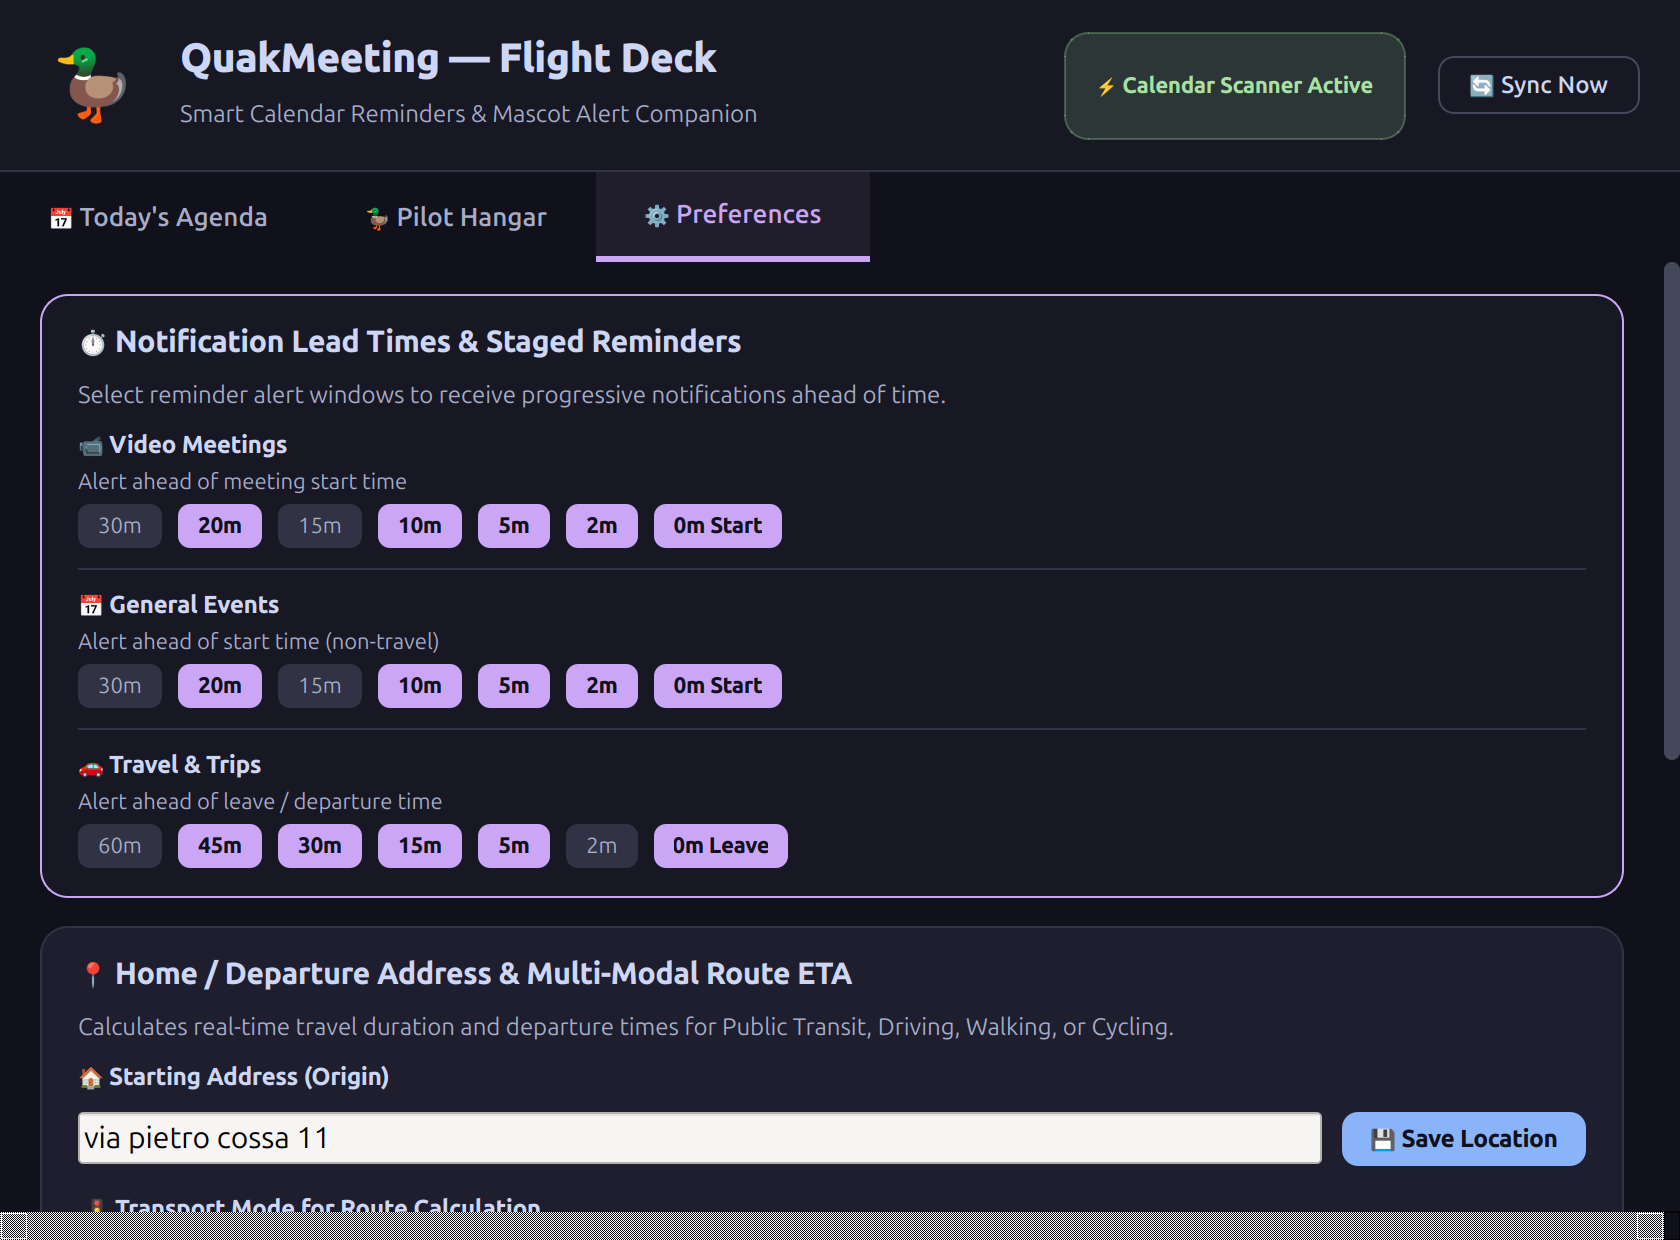
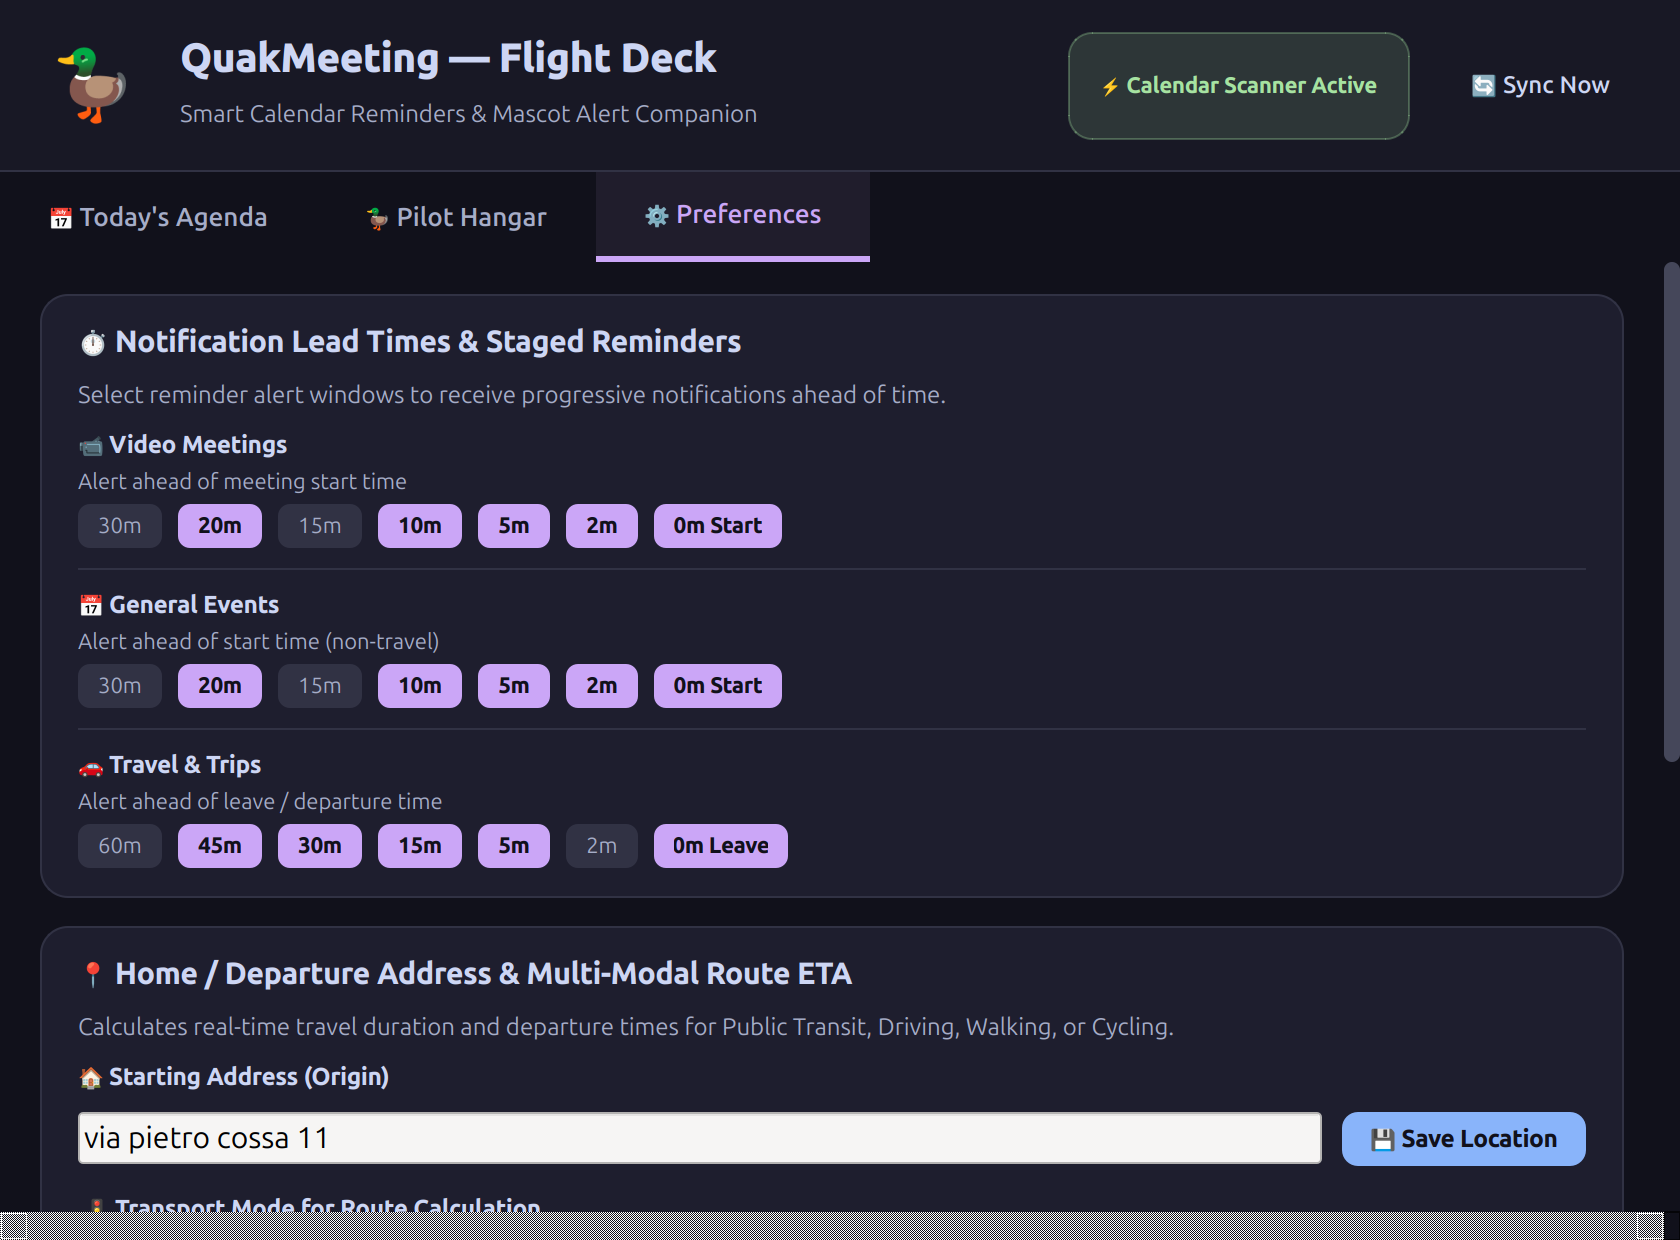
fix(ui): improve button contrast and resolve text rendering glitch
- Fix a Qt6 styling bug where missing 'border: none;' on QPushButton caused Linux DEs to overwrite the text color of #PrimaryBtn.
- Adjust text color on the Preferences segmented buttons and the software update button to use Catppuccin Crust (#11111b) against Catppuccin Blue (#89b4fa) for maximum readability and accessibility.
- Regenerate dashboard screenshots to reflect the contrast improvements.

Changed region(s): [[0.619, 0.0306, 0.9595, 0.0919]]

diff --git a/ui/linux/qt_dashboard.py b/ui/linux/qt_dashboard.py
@@ -118,6 +118,7 @@ QPushButton#PrimaryBtn {
     color: #11111b; /* Crust */
     font-size: 12px;
     font-weight: bold;
+    border: none;
     border-radius: 8px;
     padding: 6px 14px;
 }
@@ -131,6 +132,7 @@ QPushButton#OutlineBtn {
     border: 1px solid #45475a; /* Surface1 */
     font-size: 12px;
     font-weight: 600;
+    border: none;
     border-radius: 8px;
     padding: 6px 14px;
 }
@@ -158,7 +160,7 @@ QPushButton#SegmentBtn {
     padding: 6px 12px;
 }
 QPushButton#SegmentBtn:hover {
-    background-color: rgba(255,255,255,0.05);
+    background-color: rgba(205, 214, 244, 0.05);
 }
 QPushButton#SegmentBtn:checked {
     background-color: #313244; /* Surface0 */
@@ -503,7 +505,7 @@ class QtFlightDeckWindow(QMainWindow):
                     b.setStyleSheet("""
                         QPushButton {
                             background: qlineargradient(x1:0, y1:0, x2:1, y2:0, stop:0 #74c7ec, stop:1 #89b4fa);
-                            color: #cdd6f4;
+                            color: #11111b;
                             font-weight: bold;
                             border: 1px solid #89b4fa;
                             border-radius: 8px;
@@ -513,14 +515,14 @@ class QtFlightDeckWindow(QMainWindow):
                 else:
                     b.setStyleSheet("""
                         QPushButton {
-                            background: rgba(255, 255, 255, 0.05);
+                            background: rgba(205, 214, 244, 0.05);
                             color: #bac2de;
-                            border: 1px solid rgba(255, 255, 255, 0.1);
+                            border: 1px solid rgba(205, 214, 244, 0.1);
                             border-radius: 8px;
                             padding: 8px 12px;
                         }
                         QPushButton:hover {
-                            background: rgba(255, 255, 255, 0.10);
+                            background: rgba(205, 214, 244, 0.10);
                             color: #cdd6f4;
                         }
                     """)
@@ -715,7 +717,7 @@ class QtFlightDeckWindow(QMainWindow):
         install_btn.setStyleSheet("""
             QPushButton {
                 background: qlineargradient(x1:0, y1:0, x2:1, y2:0, stop:0 #74c7ec, stop:1 #89b4fa);
-                color: #cdd6f4;
+                color: #11111b;
                 font-weight: bold;
                 font-size: 12px;
                 border-radius: 8px;
@@ -726,7 +728,7 @@ class QtFlightDeckWindow(QMainWindow):
                 background: qlineargradient(x1:0, y1:0, x2:1, y2:0, stop:0 #89b4fa, stop:1 #89b4fa);
             }
             QPushButton:disabled {
-                background: rgba(255, 255, 255, 0.08);
+                background: rgba(205, 214, 244, 0.08);
                 color: #6c7086;
             }
         """)
